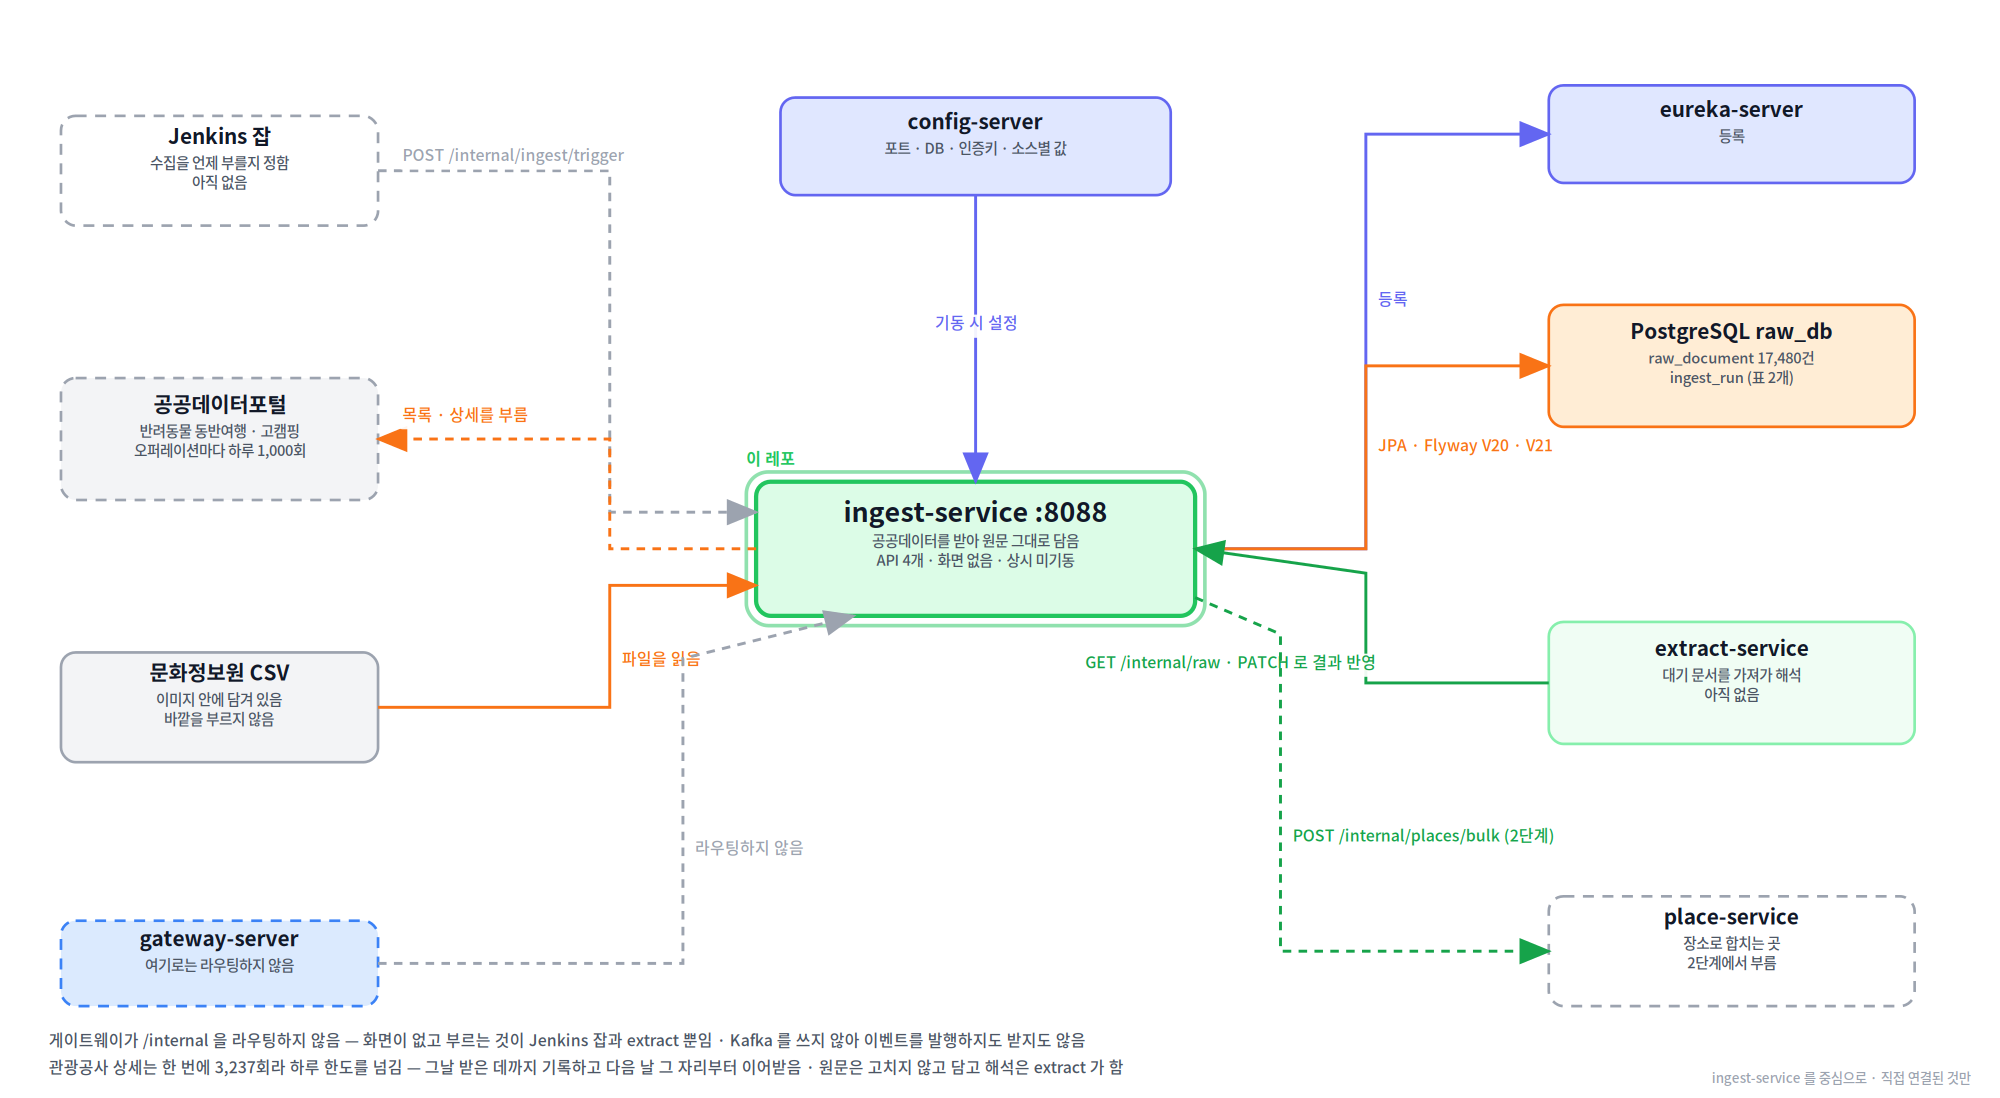
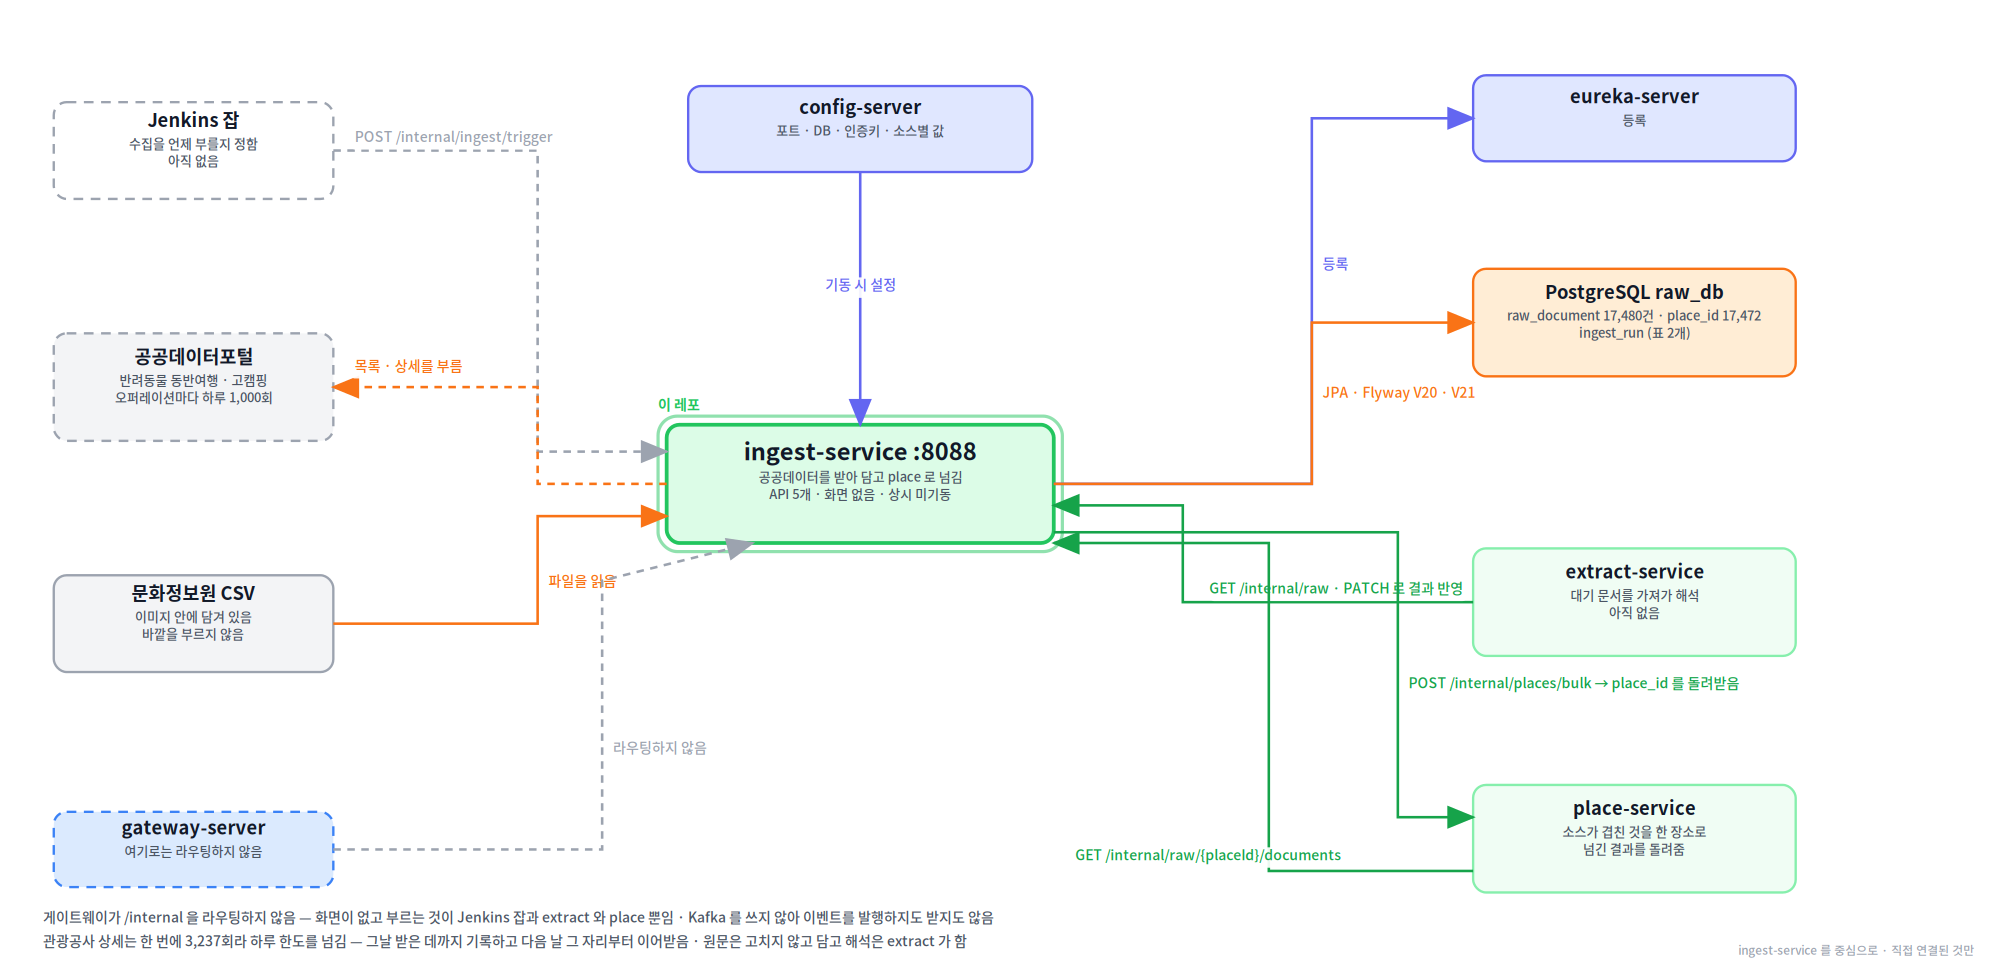
docs: redraw the focus diagram with the place link

diff --git a/docs/focus.py b/docs/focus.py
@@ -65,9 +65,9 @@ B,V,G,O,P,X,L="#3B82F6","#6366F1","#16A34A","#F97316","#A855F7","#9CA3AF","#D977
 
 
 # ── ingest-service
-d=D(1640,900)
+d=D(1860,900)
 d.me("ig",800,450,360,110,"dom","ingest-service  :8088",
-     "공공데이터를 받아 원문 그대로 담음|API 4개 · 화면 없음 · 상시 미기동")
+     "공공데이터를 받아 담고 place 로 넘김|API 5개 · 화면 없음 · 상시 미기동")
 
 d.node("jk",180,140,260,90,"fut","Jenkins 잡","수집을 언제 부를지 정함|아직 없음",dash=True)
 d.node("api",180,360,260,100,"ext","공공데이터포털","반려동물 동반여행 · 고캠핑|오퍼레이션마다 하루 1,000회",dash=True)
@@ -75,10 +75,10 @@ d.node("csv",180,580,260,90,"ext","문화정보원 CSV","이미지 안에 담겨
 d.node("gw",180,790,260,70,"edge","gateway-server","여기로는 라우팅하지 않음",dash=True)
 
 d.node("cf",800,120,320,80,"plat","config-server","포트 · DB · 인증키 · 소스별 값")
-d.node("eu",1420,110,300,80,"plat","eureka-server","등록")
-d.node("pg",1420,300,300,100,"data","PostgreSQL  raw_db","raw_document 17,480건|ingest_run  (표 2개)")
-d.node("ex",1420,560,300,100,"domn","extract-service","대기 문서를 가져가 해석|아직 없음")
-d.node("pl",1420,780,300,90,"fut","place-service","장소로 합치는 곳|2단계에서 부름",dash=True)
+d.node("eu",1520,110,300,80,"plat","eureka-server","등록")
+d.node("pg",1520,300,300,100,"data","PostgreSQL  raw_db","raw_document 17,480건 · place_id 17,472|ingest_run  (표 2개)")
+d.node("ex",1520,560,300,100,"domn","extract-service","대기 문서를 가져가 해석|아직 없음")
+d.node("pl",1520,780,300,100,"domn","place-service","소스가 겹친 것을 한 장소로|넘긴 결과를 돌려줌")
 
 d.edge("jk","r","ig","l",X,"POST /internal/ingest/trigger",dash=True,
        via=[(500,140),(500,420)],b_pt=(620,420),lx=330,ly=132,anchor="start")
@@ -90,14 +90,16 @@ d.edge("gw","r","ig","b",X,"라우팅하지 않음",dash=True,
        via=[(560,790),(560,540)],b_pt=(700,505),lx=570,ly=700,anchor="start")
 
 d.edge("cf","b","ig","t",V,"기동 시 설정")
-d.edge("ig","r","eu","l",V,"등록",via=[(1120,450),(1120,110)],lx=1130,ly=250,anchor="start")
+d.edge("ig","r","eu","l",V,"등록",via=[(1220,450),(1220,110)],lx=1230,ly=250,anchor="start")
 d.edge("ig","r","pg","l",O,"JPA · Flyway V20 · V21",
-       via=[(1120,450),(1120,300)],lx=1130,ly=370,anchor="start")
+       via=[(1220,450),(1220,300)],lx=1230,ly=370,anchor="start")
 d.edge("ex","l","ig","r",G,"GET /internal/raw · PATCH 로 결과 반영",
-       via=[(1120,560),(1120,470)],lx=890,ly=548,anchor="start")
-d.edge("ig","r","pl","l",G,"POST /internal/places/bulk  (2단계)",dash=True,
-       a_pt=(980,490),via=[(1050,520),(1050,780)],lx=1060,ly=690,anchor="start")
+       a_pt=(1370,560),via=[(1100,560),(1100,470)],b_pt=(980,470),lx=1360,ly=552,anchor="end")
+d.edge("ig","r","pl","l",G,"POST /internal/places/bulk  →  place_id 를 돌려받음",
+       a_pt=(980,495),via=[(1300,495),(1300,760)],b_pt=(1370,760),lx=1310,ly=640,anchor="start")
+d.edge("pl","l","ig","r",G,"GET /internal/raw/{placeId}/documents",
+       a_pt=(1370,810),via=[(1180,810),(1180,505)],b_pt=(980,505),lx=1000,ly=800,anchor="start")
 
-d.note(40,858,"게이트웨이가 /internal 을 라우팅하지 않음 — 화면이 없고 부르는 것이 Jenkins 잡과 extract 뿐임 · Kafka 를 쓰지 않아 이벤트를 발행하지도 받지도 않음")
+d.note(40,858,"게이트웨이가 /internal 을 라우팅하지 않음 — 화면이 없고 부르는 것이 Jenkins 잡과 extract 와 place 뿐임 · Kafka 를 쓰지 않아 이벤트를 발행하지도 받지도 않음")
 d.note(40,880,"관광공사 상세는 한 번에 3,237회라 하루 한도를 넘김 — 그날 받은 데까지 기록하고 다음 날 그 자리부터 이어받음 · 원문은 고치지 않고 담고 해석은 extract 가 함")
 d.save("ingest-service","ingest-service 를 중심으로 · 직접 연결된 것만")
